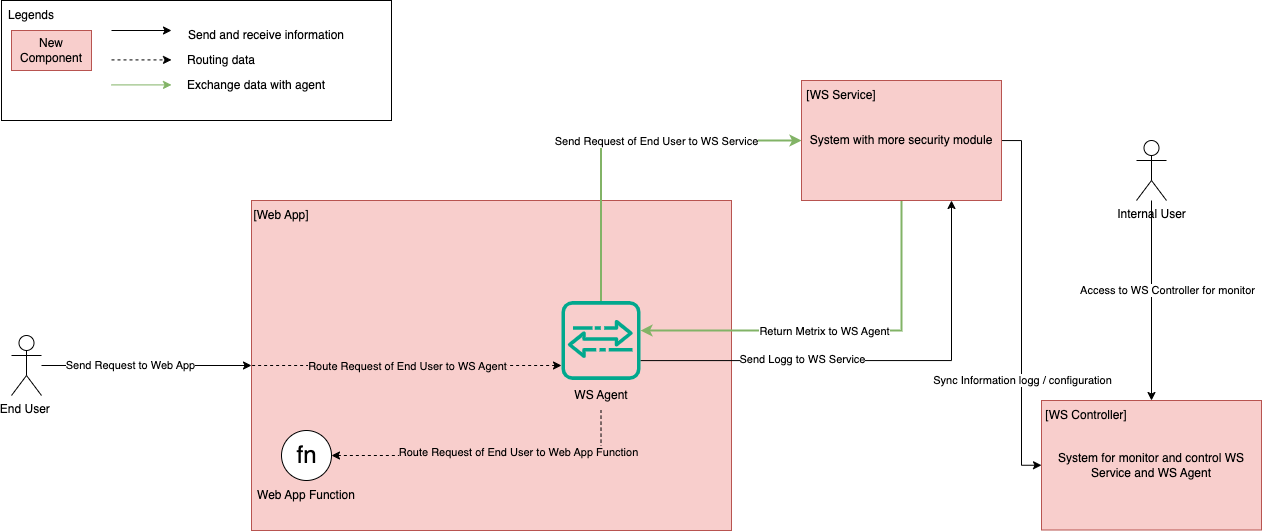
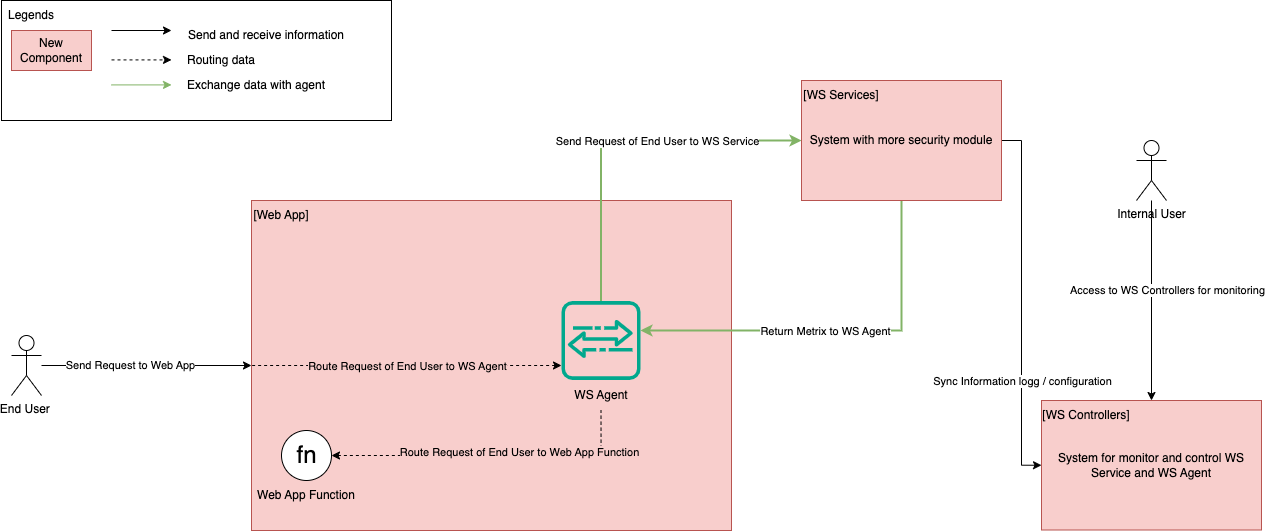
update document

diff --git a/documents/Whale-Sentinel-Tech-Stack.md b/documents/Whale-Sentinel-Tech-Stack.md
@@ -1,35 +1,33 @@
 # Whale Sentinel Technology Stack
 
-## Whale Sentinel Controller
+## Whale Sentinel Controllers
 
 | .No | Component               | Description      | TechStack                              | Integration Capabilities                                                                |
 |-----|-------------------------|------------------|----------------------------------------|-----------------------------------------------------------------------------------------|
-| 1   | WS Dashboard            | Frontend         | React v19                              | Integrates with the backend via RESTful APIs.                                           |
-| 2   | WS Controller Service   | Backend          | Golang 1.24.0                          | Serves as the core logic layer, integrating with the frontend and WS Module via APIs.   |
+| 1   | WS Manage Dashboard         | Frontend         | React v19                              | Integrates with the backend via RESTful APIs.                                           |
+| 2   | WS Processor   | Backend          | Golang 1.24.0                          | Serves as the core logic layer, integrating with the frontend and WS Module via APIs.   |
 | 3   | Database                | NoSQL            | MongoDB 8.0 / Amazon DynamoDB          | Connects to the backend using JDBC for efficient data retrieval and storage.            |
-| 4   | Cache                   | Caching          | Redis / AWS ElastiCache                | Provides high-speed data caching for backend operations.                                |
-| 5   | Event Message           | Streaming        | Apache Kafka 3.9.0 / AWS MSK           | Handles real-time data streaming between the WS Module and the backend system.          |
-| 6   | Event Message           | Streaming        | Socket.IO 4.x                          | Facilitates bi-directional data streaming between the frontend and the backend system.  |
+| 4   | WS Monitor Dashboard   | Frontend          | OpenSearch Dashboard                   | Visualziation data from OpenSearch DB.   |
+| 5   | OpenSearch DB                | NoSQL            |           | Store log of all services.            |
+| 6   | Cache                   | Caching          | Redis / AWS ElastiCache                | Provides high-speed data caching for backend operations.                                |
+| 7   | Event Message           | Streaming        | Apache Kafka 3.9.0 / AWS MSK           | Handles real-time data streaming between the WS Module and the backend system.          |
+| 8   | Event Message           | Streaming        | Socket.IO 4.x                          | Facilitates bi-directional data streaming between the frontend and the backend system.  |
 
 
-## Whale Sentinel Service 
+## Whale Sentinel Services
 
 | .No | Component                       | Description             | TechStack                | Integration Capabilities                                                                            |
 |-----|---------------------------------|-------------------------|--------------------------|----------------------------------------------------------------------------------------------------|
 | 1   | WS Module Web Attack Detection  | Module for web attack detection using AI models | Python 3.9, TensorFlow, FastAPI   | Integrates with the gateway via APIs to detect web attacks in real-time.                             |
-| 2   | WS Module Logg                  | Log collection module   | Golang 1.24.0            | Consumes and centralizes logs from all WS Modules for monitoring and analysis.                     |
-| 3   | WS Module Sync Configuration    | Configuration synchronization module | Golang 1.24.0            | Consumes configuration data from the backend and synchronizes it across all WS Modules and agents. |
-| 4   | Cache                           | Caching                 | Redis / AWS ElastiCache  | Stores and provides quick access to configuration data for optimized performance.                  |
-| 5   | Event Message                   | Streaming               | Apache Kafka 3.9.0 / AWS MSK | Streams real-time data between WS Modules and the backend for efficient communication and updates. |
-| 6   | WS Module Gateway Service       | Module for receive and route request from WS Agent to specific WS module | Golang 1.24.0 | Integrates with the agent via APIs. |
+| 2   | WS Module Configuration Service   | Configuration synchronization module | Golang 1.24.0            | Consumes configuration data from the backend and synchronizes it across all WS Modules and agents. |
+| 3   | Cache                           | Caching                 | Redis / AWS ElastiCache  | Stores and provides quick access to configuration data for optimized performance.                  |
+| 4   | Event Message                   | Streaming               | Apache Kafka 3.9.0 / AWS MSK | Streams real-time data between WS Modules and the backend for efficient communication and updates. |
+| 5   | WS Module Gateway Service       | Module for receive and route request from WS Agent to specific WS module | Golang 1.24.0 | Integrates with the agent via APIs. |
+| 6   | Fluent-bit       | Get log from service then push to OpenSearch DB. |
 
-
-## Whale Sentinel Agent 
+## Whale Sentinel Agents
 
 | .No | Component               | Description                  | TechStack                              | Integration Capabilities                                                                |
 |-----|-------------------------|------------------------------|----------------------------------------|-----------------------------------------------------------------------------------------|
 | 1   | Python Agent            | Agent for Python language    | Flask 3.1.1, Django 5.1.5             | Integrates with WS Modules via APIs to monitor and process Python-based applications.   |
 | 2   | Java Agent              | Agent for Java language      | Spring Boot 3.4.1                      | Integrates with WS Modules via APIs to monitor and process Java-based applications.     |
-| 3   | Cache                   | Caching                      | Redis / AWS ElastiCache                | Provides caching for configuration data to optimize performance and reduce latency.     |
-| 4   | Event Message           | Streaming                    | Apache Kafka 3.9.0 / AWS MSK           | Enables real-time data streaming between agents and WS Modules for seamless updates.    |
-

diff --git a/documents/Whale-Sentinel-Design-Board.md b/documents/Whale-Sentinel-Design-Board.md
@@ -8,14 +8,14 @@
 
 ![High Level Architecture](https://github.com/noobpk/whale-sentinel/blob/main/diagrams/WS_High_Level_Architecture.png?raw=true)
 
-### Scope 
+### Scopes
 
 | **No.** | **System**            | **Service Name**                 | **Description**                                                                                           |
 |---------|-----------------------|----------------------------------|-----------------------------------------------------------------------------------------------------------|
 | 1       | **WS Web Agent**      | **Python Agent**                | A Python-based agent designed for seamless integration with Flask and Django applications, providing logging, monitoring, and security features. |
 | 2       |                       | **Java Agent**                  | A Java-based agent optimized for integration with Spring Boot applications, enabling enhanced performance monitoring and secure communications. |
 | 3       | **WS Services**        | **WS Module Web Attack Detection** | An AI-driven module designed to detect and mitigate web-based attacks in real time, offering robust protection against threats like SQL injection and XSS. |
-| 5       |                       | **WS Module Sync Configuration** | A module ensuring real-time synchronization of configuration changes across all connected agents and systems, minimizing downtime and inconsistencies. |
+| 5       |                       | **WS Module Configuration Service** | A module ensuring real-time synchronization of configuration changes across all connected agents and systems, minimizing downtime and inconsistencies. |
 | 6       |                       | **WS Module Gateway Service** | A central processing module responsible for receiving, validating, and routing incoming requests from agents to the appropriate functional modules.|
 | 6       |                       | **WS Module Common Attack Detection** | An advanced detection module that identifies and mitigates common attack patterns, including Large Request, HTTP Verb Tampering, XSS, SQLi and other widespread security threats using rule base. |
 | 7       |                       | **WS Module DGA Detection** | A specialized module focused on detecting domain generation algorithm (DGA) attacks, analyzing Web traffic to identify malicious domains generated by botnets, and providing real-time alerts. |
@@ -25,6 +25,14 @@
 | 12       |                       | **OpenSearch DB**      | A highly scalable, distributed search and analytics engine used for storing, indexing, and analyzing large volumes of log data, monitoring metrics, and system events. It enables real-time search, advanced analytics, and seamless integration with OpenSearch Dashboards for visualization and management. |
 | 13      |                       | **Redis / AWS ElastiCache**     | A high-performance in-memory data store for caching frequently accessed data, ensuring low latency and high throughput for WS systems. |
 | 14      | **Messaging**         | **Kafka / MSK Topics**          | A distributed messaging system (Apache Kafka or Amazon MSK) used for reliable message streaming between modules and agents. |
+
+
+## Whale Sentinel Rule Design
+
+| Key | Value |
+| --- | ----- |
+| ws-agent-* | [#Whale Sentinel Agent Rule](./Whale-Sentinel-Rule-Design.md) |
+| ws-common-attack-detection-service | [#Whale Sentinel Services Rule](./Whale-Sentinel-Rule-Design.md) |
 
 ## WS-Web Agent Architecture
 

diff --git a/documents/Whale-Sentinel-Rule-Design.md b/documents/Whale-Sentinel-Rule-Design.md
@@ -1,0 +1,80 @@
+# Whale Sentinel Configuration Design
+
+## Whale Sentinel Service Configuration
+
+### ws-common-attack-detection
+
+| Group | Rule | Value | Type | M/O | Description | 
+| ---------- | ---- | ----- | ---- | ----| ----------- |
+| | xss_patterns | array | string | M | XSS pattern |
+| | sql_patterns | array | string | M | XSS pattern |
+| | http_verb_patterns | string | string | M | HTTP Verb Tampering pattern |
+| | patching_patterns | array | string | M | patching pattern for 0day attack |
+
+- Example ws-common-attack-detection configuration
+
+```
+{
+  "rules": {
+    "xss_patterns": [
+      "(?:https?://|//)[^\\s/]+\\.js",
+      "((%3C)|<)((%2F)|/)*[a-z0-9%]+((%3E)|>)",
+      "((\\%3C)|<)((\\%69)|i|(\\%49))((\\%6D)|m|(\\%4D))((\\%67)|g|(\\%47))[^\n]+((\\%3E)|>)"
+    ],
+    "sql_patterns": [
+      "(?:select\\s+.+\\s+from\\s+.+)",
+      "(?:insert\\s+.+\\s+into\\s+.+)",
+      "..."
+    ],
+    "http_verb_patterns": "(?i)(HEAD|OPTIONS|TRACE|CONNECT|PROPFIND|PROPPATCH|MKCOL|COPY|MOVE|LOCK|UNLOCK)",
+    "patching_patterns: [
+      "^(?!.*(\\.\\.|\\/\|\\\\)).*$"
+    ]
+  }
+}
+```
+
+## Whale Sentinel Agent Configuration
+
+| Group | Rule | Value | Type | M/O | Description | 
+| ---------- | ---- | ----- | ---- | ----| ----------- |
+| | run_mode | lite/monitor/protect | string | M | Current run mode of agent |
+| | las_mode | lite/monitor/protect | string | M | Last run mode of agent |
+| ws_module_web_attack_detection | enable | true/false | boolean | M | Enable/disable this rule |
+| ws_module_web_attack_detection | detect_header | true/false | boolean | M | Default detect only request body & request params |
+| ws_module_dga_detection | enable | true/false | boolean | M | Enable/disable this rule |
+| ws_module_common_attack_detection | enable | true/false | boolean | M | Enable/disable this rule |
+| ws_module_common_attack_detection | detect_cross_site_scripting | true/false | boolean | M | Enable/disable detect cross-site-scription attack |
+| ws_module_common_attack_detection | detect_http_large_request | true/false | boolean | M | Enable/disable detect http large request |
+| ws_module_common_attack_detection | detect_sql_injection | true/false | boolean | M | Enable/disable detect sql injection attack |
+| ws_module_common_attack_detection | detect_http_verb_tampering | true/false | boolean | M | Enable/disable detect http ver tampering attack |
+| | lite_log_sync | true/false | boolean | M | Status of lite log is sent or not |
+| | lite_log_status | success/fail | string | M | Status of lite log is sent success or not |
+
+
+- Example Agent Configuration
+ 
+```
+{
+    "rules": {
+        "run_mode: "monitor",
+        "last_mode: "lite",
+        "lite_log_sync": false,
+        "lite_log_status: "fail",
+        "ws_module_web_attack_detection": {
+            "enable": true,
+            "detect_header": false
+        },
+        "ws_module_dga_detection": {
+            "enable": true
+        },
+        "ws_module_common_attack_detection": {
+            "enable": true,
+            "detect_cross_site_scripting": true,
+            "detect_http_large_request": true,
+            "detect_sql_injection": true,
+            "detect_http_verb_tampering": true
+        }
+    }
+}
+```
